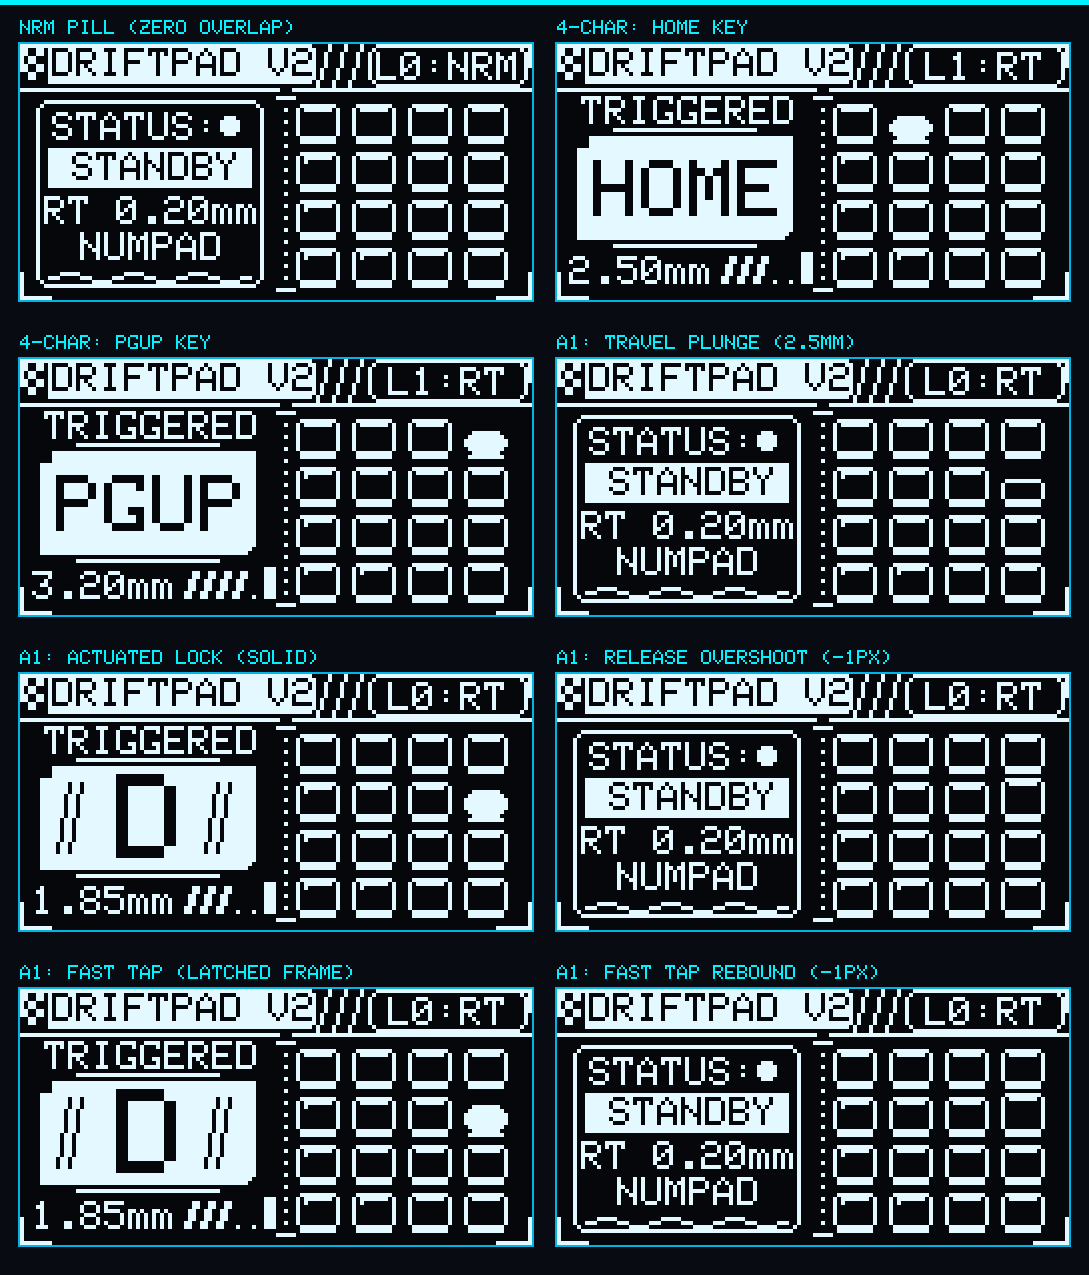
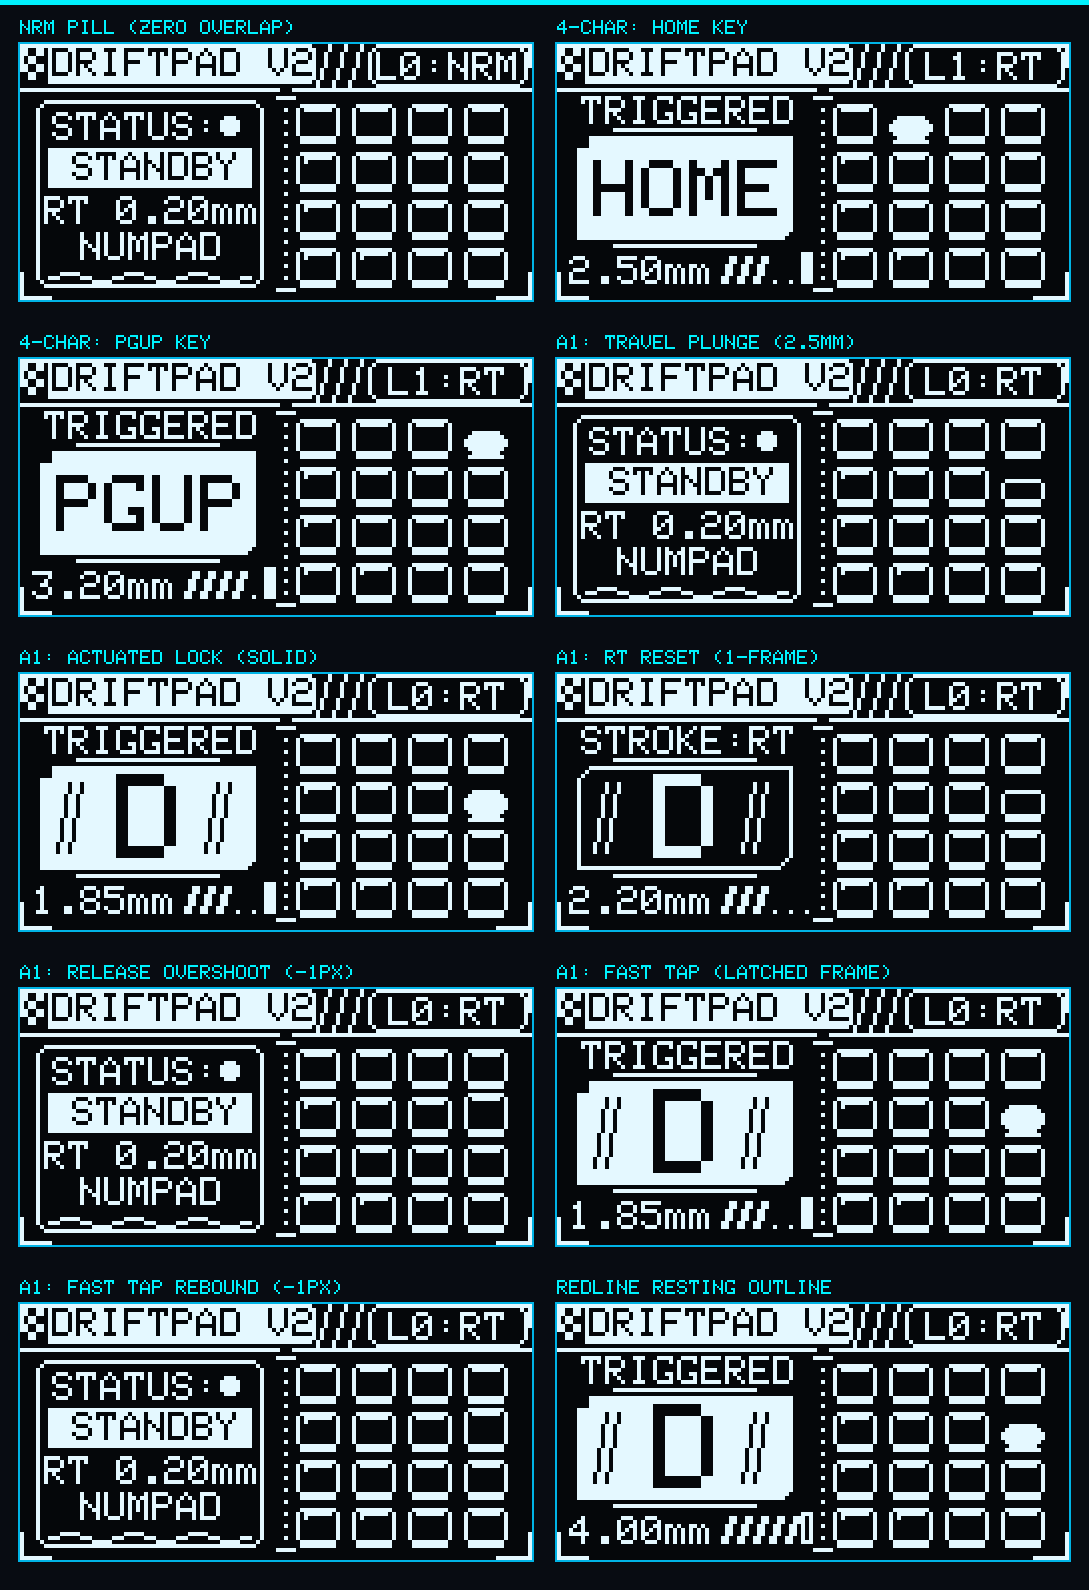
Add A1 Rapid Trigger re-press reset edge case and update showcase gallery

diff --git a/tools/render_oled_png.py b/tools/render_oled_png.py
@@ -171,11 +171,12 @@ def render_screen(
     a1_mode=True,
     overshoot_keys=None,
     key_travels=None,
+    rt_repress=False,
 ):
     """
     Renders an exact frame matching firmware/src/oled.cpp.
     All text readouts (RT sensitivity, layer name, pill text) and animation states
-    (A1 Plunge, ripple frame, redline flash) are fully parameterized.
+    (A1 Plunge, ripple frame, redline flash, RT re-press) are fully parameterized.
     """
     display.clear()
 
@@ -221,48 +222,78 @@ def render_screen(
     # 3. Left Side: Active Key Cockpit vs Standby Cockpit
     if is_active:
         # Subtext with clean clearance
-        display.printText("TRIGGERED", 6, 13, size=1, col=1)
+        if rt_repress:
+            display.printText("STROKE:RT", 6, 13, size=1, col=1)
+        else:
+            display.printText("TRIGGERED", 6, 13, size=1, col=1)
 
         cx, cy, cw, ch = 5, 23, 54, 26
         # Top/bottom framing accents with clear spacing
         display.drawFastHLine(14, 21, 36, 1)
         display.drawFastHLine(14, 50, 36, 1)
 
-        # Inverted filled card with chamfered corners
-        display.fillRect(cx + 3, cy, cw - 3, ch, 1)
-        display.fillRect(cx, cy + 3, 3, ch - 3, 1)
-        display.drawPixel(cx, cy, 0)
-        display.drawPixel(cx + 1, cy, 0)
-        display.drawPixel(cx, cy + 1, 0)
-        display.drawPixel(cx + cw - 1, cy + ch - 1, 0)
-        display.drawPixel(cx + cw - 2, cy + ch - 1, 0)
-        display.drawPixel(cx + cw - 1, cy + ch - 2, 0)
-
-        # Inverted speed chevrons and centered label based on label length
         key_len = len(key_label)
-        if key_len == 1:
-            display.drawLine(12, 27, 9, 44, 0)
-            display.drawLine(15, 27, 12, 44, 0)
-            display.drawLine(49, 27, 46, 44, 0)
-            display.drawLine(52, 27, 49, 44, 0)
-            display.printText(key_label, cx + (cw - 15) // 2, cy + (ch - 21) // 2, size=3, col=0, bg=1)
-        elif key_len == 2:
-            display.drawLine(10, 27, 8, 44, 0)
-            display.drawLine(54, 27, 52, 44, 0)
-            display.printText(key_label, cx + (cw - 22) // 2, cy + (ch - 14) // 2, size=2, col=0, bg=1)
-        elif key_len == 3:
-            display.printText(key_label, cx + (cw - 34) // 2, cy + (ch - 14) // 2, size=2, col=0, bg=1)
-        elif key_len == 4:
-            display.printText(key_label, cx + (cw - 46) // 2, cy + (ch - 14) // 2, size=2, col=0, bg=1)
+        if not rt_repress:
+            # Inverted filled card with chamfered corners
+            display.fillRect(cx + 3, cy, cw - 3, ch, 1)
+            display.fillRect(cx, cy + 3, 3, ch - 3, 1)
+            display.drawPixel(cx, cy, 0)
+            display.drawPixel(cx + 1, cy, 0)
+            display.drawPixel(cx, cy + 1, 0)
+            display.drawPixel(cx + cw - 1, cy + ch - 1, 0)
+            display.drawPixel(cx + cw - 2, cy + ch - 1, 0)
+            display.drawPixel(cx + cw - 1, cy + ch - 2, 0)
+
+            # Inverted speed chevrons and centered label based on label length
+            if key_len == 1:
+                display.drawLine(12, 27, 9, 44, 0)
+                display.drawLine(15, 27, 12, 44, 0)
+                display.drawLine(49, 27, 46, 44, 0)
+                display.drawLine(52, 27, 49, 44, 0)
+                display.printText(key_label, cx + (cw - 15) // 2, cy + (ch - 21) // 2, size=3, col=0, bg=1)
+            elif key_len == 2:
+                display.drawLine(10, 27, 8, 44, 0)
+                display.drawLine(54, 27, 52, 44, 0)
+                display.printText(key_label, cx + (cw - 22) // 2, cy + (ch - 14) // 2, size=2, col=0, bg=1)
+            elif key_len == 3:
+                display.printText(key_label, cx + (cw - 34) // 2, cy + (ch - 14) // 2, size=2, col=0, bg=1)
+            elif key_len == 4:
+                display.printText(key_label, cx + (cw - 46) // 2, cy + (ch - 14) // 2, size=2, col=0, bg=1)
+            else:
+                display.printText(key_label, cx + 4, cy + (ch - 8) // 2, size=1, col=0, bg=1)
         else:
-            display.printText(key_label, cx + 4, cy + (ch - 8) // 2, size=1, col=0, bg=1)
+            # Outlined chamfered frame (matching oled.cpp lines 532-538)
+            display.drawLine(cx + 3, cy, cx + cw - 1, cy, 1)
+            display.drawLine(cx + cw - 1, cy, cx + cw - 1, cy + ch - 4, 1)
+            display.drawLine(cx + cw - 1, cy + ch - 4, cx + cw - 4, cy + ch - 1, 1)
+            display.drawLine(cx + cw - 4, cy + ch - 1, cx, cy + ch - 1, 1)
+            display.drawLine(cx, cy + ch - 1, cx, cy + 3, 1)
+            display.drawLine(cx, cy + 3, cx + 3, cy, 1)
+
+            # Normal speed chevrons in white
+            if key_len == 1:
+                display.drawLine(12, 27, 9, 44, 1)
+                display.drawLine(15, 27, 12, 44, 1)
+                display.drawLine(49, 27, 46, 44, 1)
+                display.drawLine(52, 27, 49, 44, 1)
+                display.printText(key_label, cx + (cw - 15) // 2, cy + (ch - 21) // 2, size=3, col=1)
+            elif key_len == 2:
+                display.drawLine(10, 27, 8, 44, 1)
+                display.drawLine(54, 27, 52, 44, 1)
+                display.printText(key_label, cx + (cw - 22) // 2, cy + (ch - 14) // 2, size=2, col=1)
+            elif key_len == 3:
+                display.printText(key_label, cx + (cw - 34) // 2, cy + (ch - 14) // 2, size=2, col=1)
+            elif key_len == 4:
+                display.printText(key_label, cx + (cw - 46) // 2, cy + (ch - 14) // 2, size=2, col=1)
+            else:
+                display.printText(key_label, cx + 4, cy + (ch - 8) // 2, size=1, col=1)
 
         # Sub-Telemetry: Depth readout (X: 3..37) + Formula Drift Motec Tachometer (X: 41..63)
         display.printText(f"{travel_mm:.2f}mm", 3, 53, size=1, col=1)
 
         # 6-Stage Motec Tachometer with Angled Speed Chevrons /// (X: 41..63, Y: 52..59)
         active_segs = int((travel_mm / 4.0) * 6.0)
-        if is_active and active_segs < 3: active_segs = 3
+        if (not rt_repress) and active_segs < 3: active_segs = 3
         if active_segs > 6: active_segs = 6
 
         for s in range(5):
@@ -274,8 +305,8 @@ def render_screen(
                 display.drawPixel(sx + 1, 59, 1)
 
         # Segment 5: Redline shift block (X: 61..63) with redline_flash support
-        if active_segs >= 6 or is_active:
-            if redline_flash:
+        if active_segs >= 6 or (not rt_repress):
+            if redline_flash and (not rt_repress):
                 display.fillRect(61, 52, 3, 8, 1)  # Strobe F1 Shift Light
             else:
                 display.drawRect(61, 52, 3, 8, 1)  # Outlined resting block
@@ -329,13 +360,13 @@ def render_screen(
             key_idx = row * 4 + col
             bx = GRID_X + col * (BOX_W + GAP_X)
             by = GRID_Y + row * (BOX_H + GAP_Y)
-            pressed = (is_active and key_idx == active_key_idx)
+            pressed = (is_active and key_idx == active_key_idx and not rt_repress)
             is_macro = (key_idx in [4, 8, 12, 13])
 
             if a1_mode:
                 if key_travels and key_idx in key_travels:
                     t = key_travels[key_idx]
-                elif pressed:
+                elif is_active and key_idx == active_key_idx:
                     t = travel_mm
                 else:
                     t = 0.0
@@ -533,28 +564,35 @@ def main():
     img_a1_overshoot.save(path_a1_overshoot)
     print(f"  [OK] Edge Case: A1 Release Overshoot (-1px): {path_a1_overshoot}")
 
-    # Edge Case 7: Legacy Ripple frame 1 (Key 'D', r=1 halo + 2 sparks strictly within 3px gap)
+    # Edge Case 7: A1 Rapid Trigger Re-press Reset (1-frame visual reset during held actuation)
+    render_screen(disp, is_active=True, key_label="D", travel_mm=2.20, active_key_idx=7, rt_repress=True)
+    img_a1_rt_reset = disp.to_pil_image(scale=6)
+    path_a1_rt_reset = os.path.join(figures_dir, "driftpad_oled_edge_a1_rt_reset.png")
+    img_a1_rt_reset.save(path_a1_rt_reset)
+    print(f"  [OK] Edge Case: A1 RT Re-press Reset (1-frame): {path_a1_rt_reset}")
+
+    # Edge Case 8: Legacy Ripple frame 1 (Key 'D', r=1 halo + 2 sparks strictly within 3px gap)
     render_screen(disp, is_active=True, key_label="D", travel_mm=1.85, active_key_idx=7, ripple_frame=1, a1_mode=False)
     img_ripple1 = disp.to_pil_image(scale=6)
     path_r1 = os.path.join(figures_dir, "driftpad_oled_edge_ripple_frame1.png")
     img_ripple1.save(path_r1)
     print(f"  [OK] Edge Case: Ripple frame 1 (halo + sparks): {path_r1}")
 
-    # Edge Case 8: Legacy Ripple frame 2 (Key 'D', r=1 halo, sparks dropped for frames >= 2)
+    # Edge Case 9: Legacy Ripple frame 2 (Key 'D', r=1 halo, sparks dropped for frames >= 2)
     render_screen(disp, is_active=True, key_label="D", travel_mm=1.85, active_key_idx=7, ripple_frame=2, a1_mode=False)
     img_ripple2 = disp.to_pil_image(scale=6)
     path_r2 = os.path.join(figures_dir, "driftpad_oled_edge_ripple_frame2.png")
     img_ripple2.save(path_r2)
     print(f"  [OK] Edge Case: Ripple frame 2 (halo only): {path_r2}")
 
-    # Edge Case 9: Legacy Ripple frame 3 (Key 'D', dissipated corner ticks, no sparks, halo capped at r=1)
+    # Edge Case 10: Legacy Ripple frame 3 (Key 'D', dissipated corner ticks, no sparks, halo capped at r=1)
     render_screen(disp, is_active=True, key_label="D", travel_mm=1.85, active_key_idx=7, ripple_frame=3, a1_mode=False)
     img_ripple3 = disp.to_pil_image(scale=6)
     path_r3 = os.path.join(figures_dir, "driftpad_oled_edge_ripple_frame3.png")
     img_ripple3.save(path_r3)
     print(f"  [OK] Edge Case: Ripple frame 3 (dissipated corners): {path_r3}")
 
-    # Edge Case 10: Redline Shift Block resting / off-strobe (redline_flash=False)
+    # Edge Case 11: Redline Shift Block resting / off-strobe (redline_flash=False)
     render_screen(disp, is_active=True, key_label="D", travel_mm=4.00, active_key_idx=7, redline_flash=False)
     img_redline_off = disp.to_pil_image(scale=6)
     path_redline_off = os.path.join(figures_dir, "driftpad_oled_edge_redline_outline.png")
@@ -600,7 +638,7 @@ def main():
     showcase.save(os.path.join(PROJECT_ROOT, "driftpad_oled_showcase.png"))
 
     # ---------------------------------------------------------
-    # Comprehensive Edge Cases Composite Gallery (8-card showcase)
+    # Comprehensive Edge Cases Composite Gallery (10-card showcase)
     # ---------------------------------------------------------
     edge_configs = [
         ("NRM Pill (Zero Overlap)", dict(is_active=False, rt_enabled=False, pill_text="L0:NRM")),
@@ -608,9 +646,11 @@ def main():
         ("4-Char: PGUP Key", dict(is_active=True, key_label="PGUP", travel_mm=3.20, active_key_idx=3, layer_name="NAVIG", layer_idx=1, pill_text="L1:RT")),
         ("A1: Travel Plunge (2.5mm)", dict(is_active=False, key_travels={7: 2.50})),
         ("A1: Actuated Lock (Solid)", dict(is_active=True, key_label="D", travel_mm=1.85, active_key_idx=7)),
+        ("A1: RT Reset (1-Frame)", dict(is_active=True, key_label="D", travel_mm=2.20, active_key_idx=7, rt_repress=True)),
         ("A1: Release Overshoot (-1px)", dict(is_active=False, overshoot_keys={7})),
         ("A1: Fast Tap (Latched Frame)", dict(is_active=True, key_label="D", travel_mm=1.85, active_key_idx=7, redline_flash=True)),
         ("A1: Fast Tap Rebound (-1px)", dict(is_active=False, overshoot_keys={7})),
+        ("Redline Resting Outline", dict(is_active=True, key_label="D", travel_mm=4.00, active_key_idx=7, redline_flash=False)),
     ]
 
     rendered_edge_imgs = []
@@ -640,6 +680,7 @@ def main():
             "driftpad_oled_edge_a1_plunge.png",
             "driftpad_oled_edge_a1_fast_tap.png",
             "driftpad_oled_edge_a1_overshoot.png",
+            "driftpad_oled_edge_a1_rt_reset.png",
             "driftpad_oled_edge_ripple_frame1.png",
             "driftpad_oled_edge_ripple_frame2.png",
             "driftpad_oled_edge_ripple_frame3.png",
